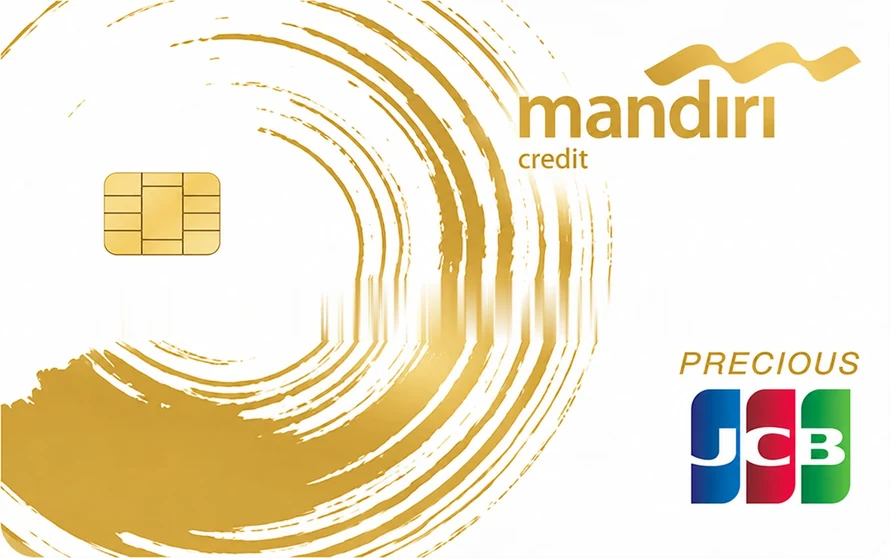
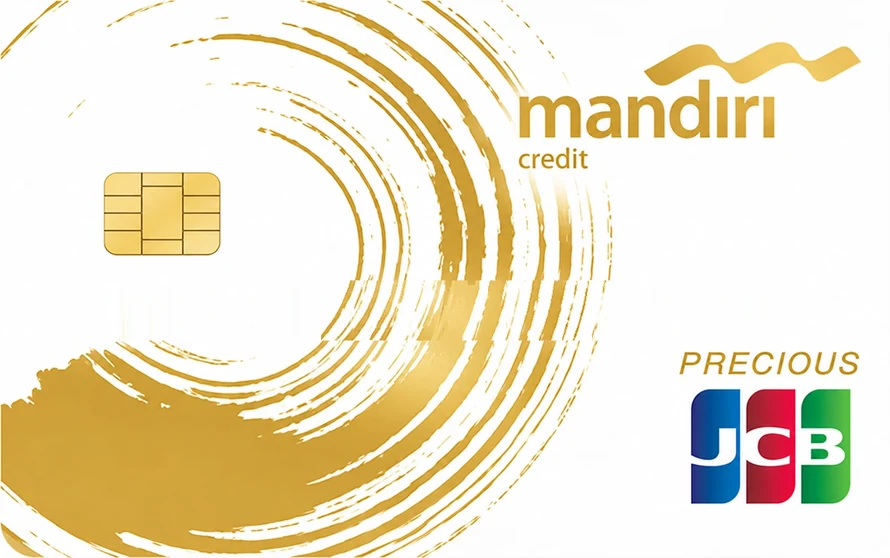
Perbaiki latar kartu JCB: sapuan emas menyambung di belakang nomor
Claude-Session: https://claude.ai/code/session_015Ebc1KBKGqm5xwmaobh5dd

Changed region(s): [[0.3337, 0.4875, 0.6978, 0.6093]]

diff --git a/css/card-art.css b/css/card-art.css
@@ -4,7 +4,7 @@
    nomor 4 digit, limit, dan nama pemilik ditampilkan oleh aplikasi.
    ============================================================ */
 .cc-skin-mandiri-jcb {
-  background-image: url("../img/card-mandiri-jcb.webp?v=2");
+  background-image: url("../img/card-mandiri-jcb.webp?v=3");
   background-color: #fff;
   --cc-num: #A47A26; --cc-name: #FFF8E6; --cc-limit: #8A6620;
   --cc-shadow: 0 1px 0 rgba(255,255,255,.7);

diff --git a/index.html b/index.html
@@ -22,7 +22,7 @@
     })();
   </script>
   <link rel="stylesheet" href="css/style.css?v=20261104">
-  <link rel="stylesheet" href="css/card-art.css?v=20261104">
+  <link rel="stylesheet" href="css/card-art.css?v=20261104b">
 </head>
 <body>
   <a class="skip-link" href="javascript:void(0)" onclick="document.getElementById('main').focus()">Lewati ke konten</a>
